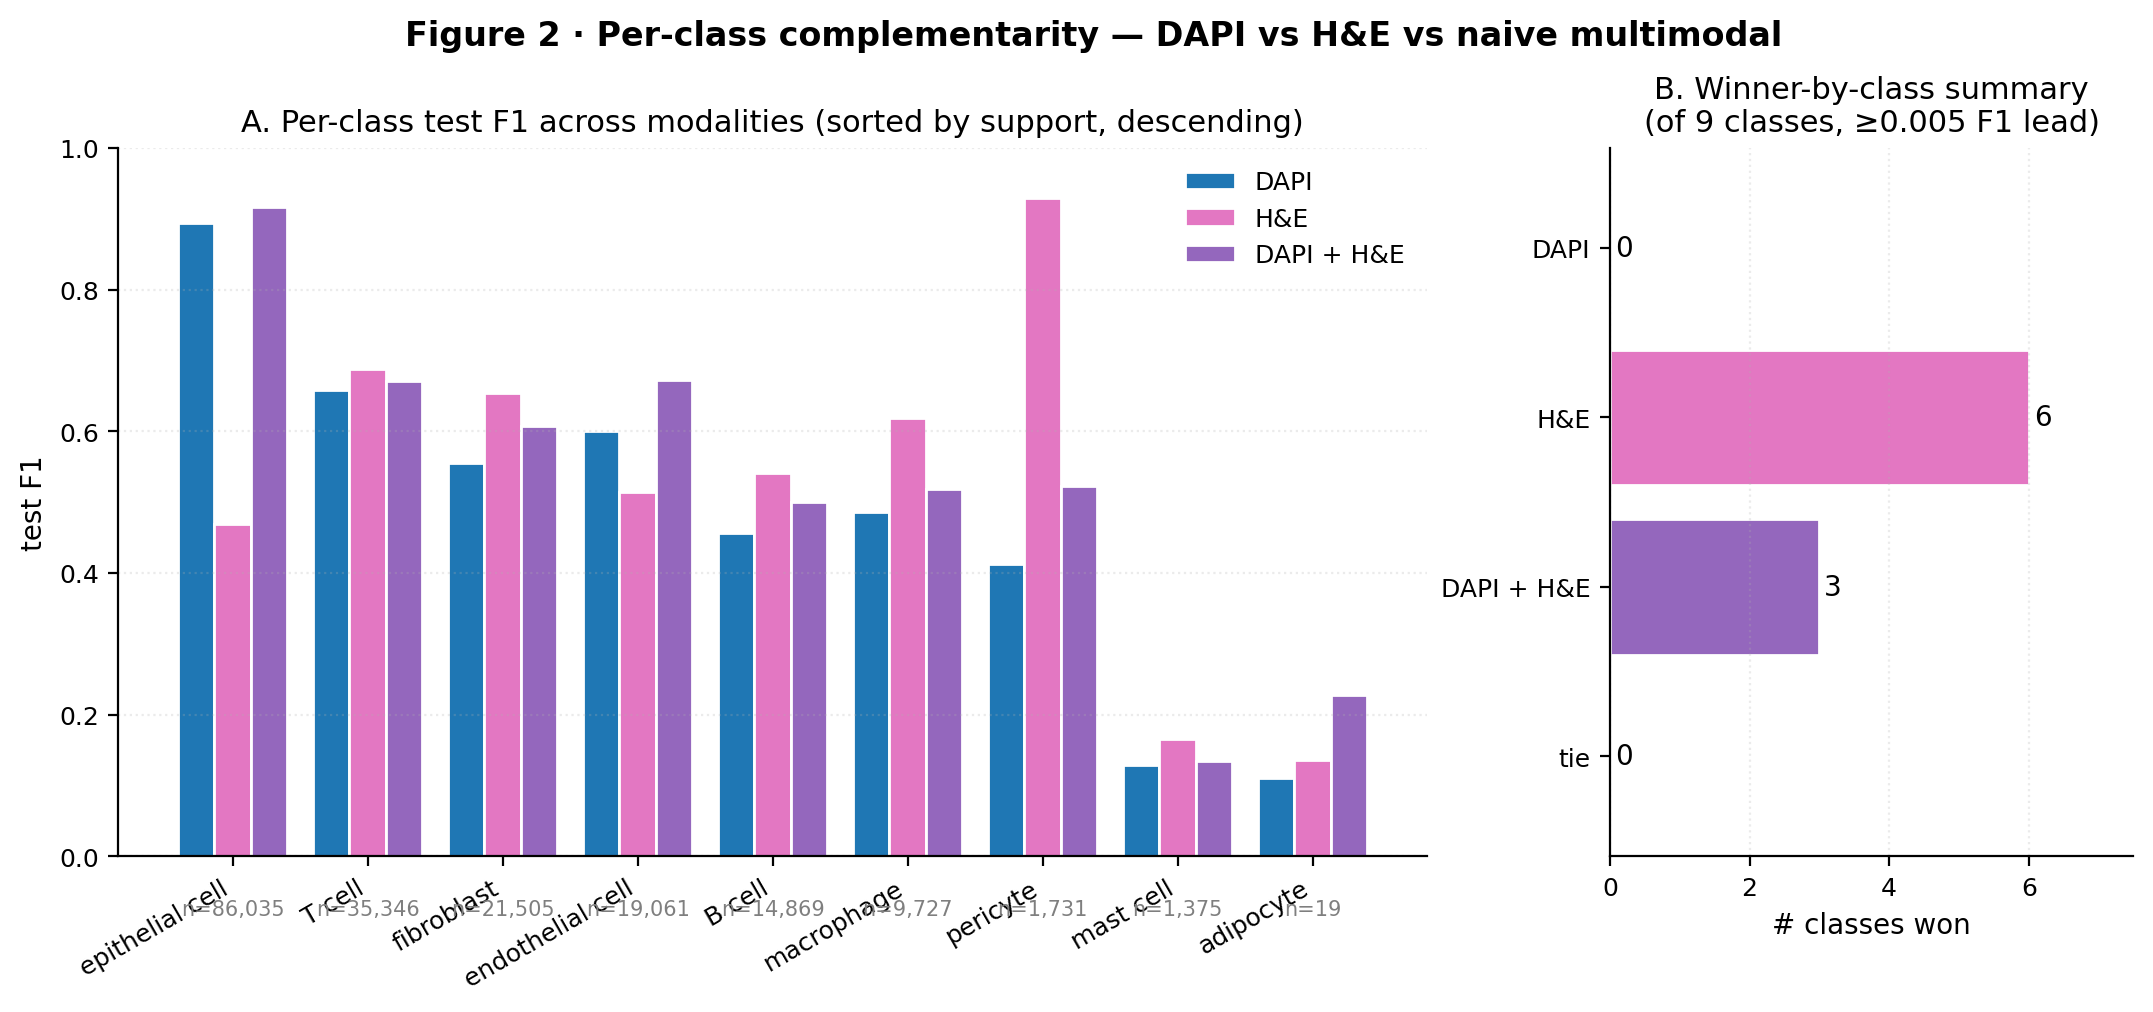
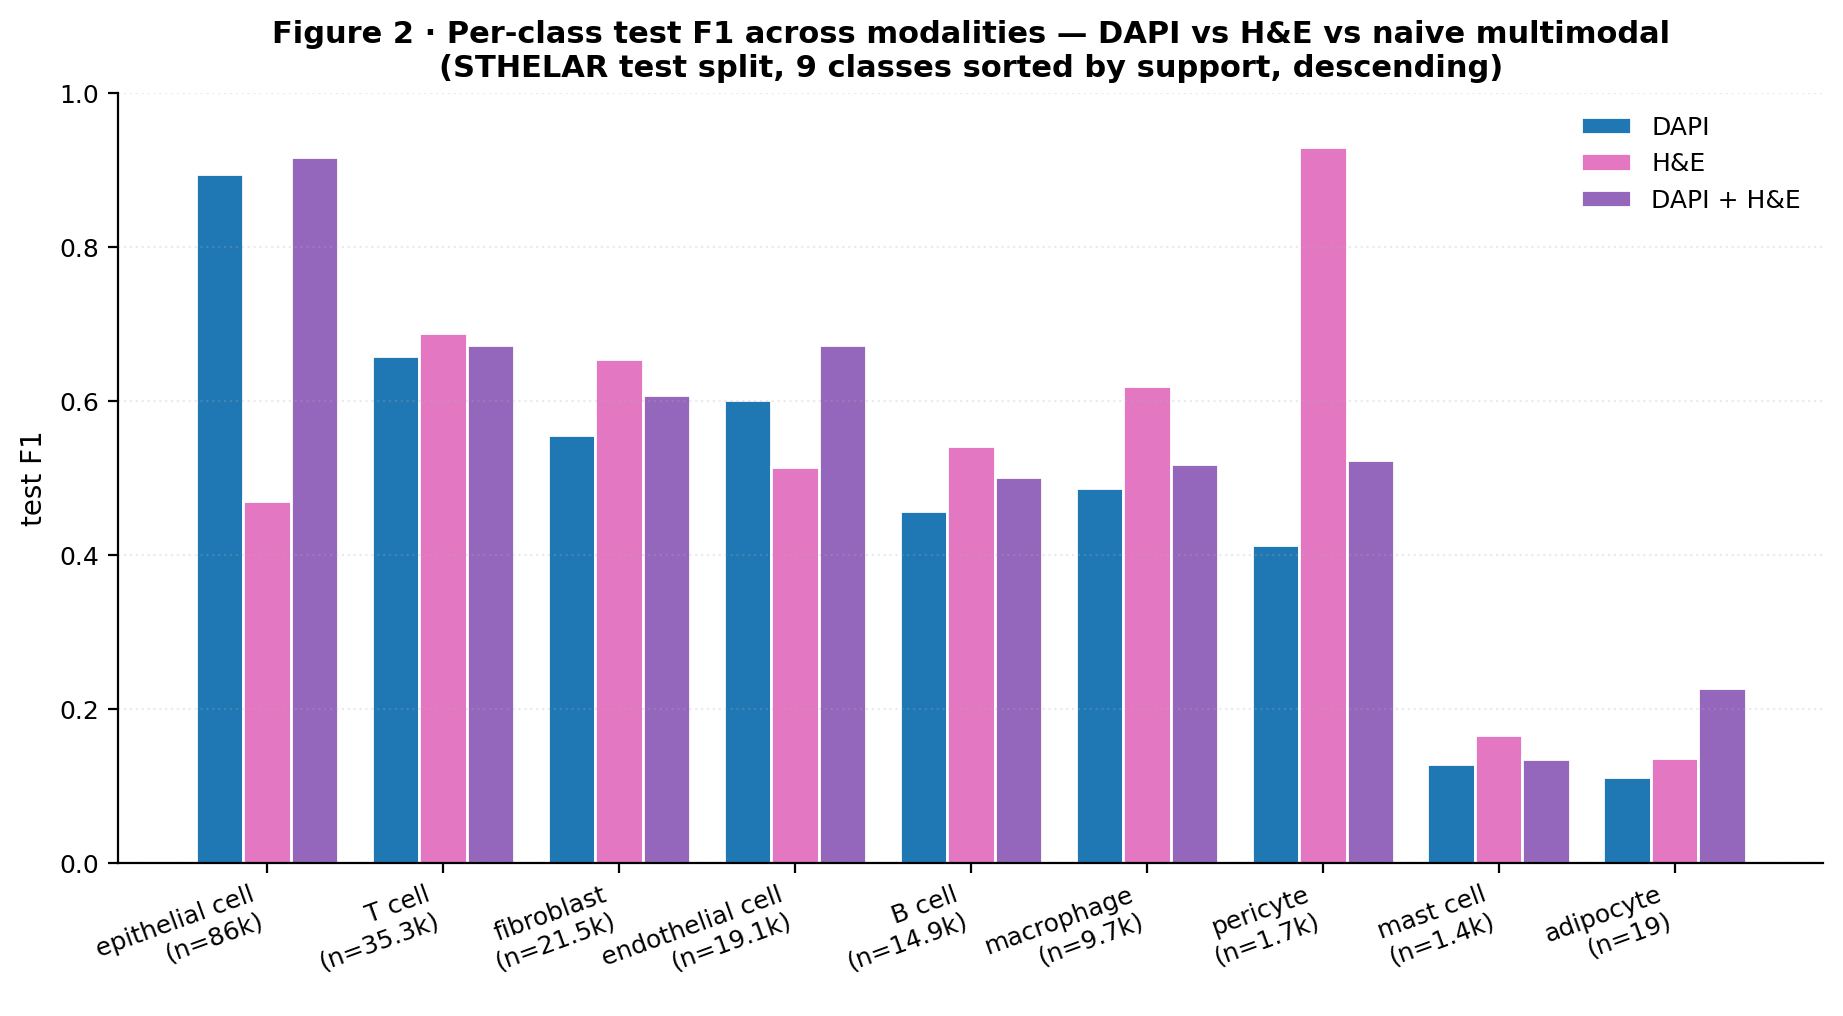
fix(fig2): fold n=… into x-tick labels, remove winner-by-class panel
User flagged: (1) the per-class support n=… annotations sat at y=-0.06
where they collided with the rotated x-tick class names; (2) panel B
(winner-by-class summary) wasn't useful enough to keep.

Fix:
  - Single-panel figure (panel B removed)
  - x-tick labels now stack class name and n=… on two lines, e.g.
      epithelial cell
      (n=86k)
    Matplotlib owns the layout — no separate ax.text() row to overlap.
  - Reduced rotation 30°→20° (single panel has more horizontal room)
  - Title shortened since the figure is now self-evident.

Manuscript figure 2 caption updated to drop the "Right panel" reference
and fold the winner-by-class counts into the prose. Both Obsidian copies
refreshed via the sync helper.

diff --git a/scripts/manuscript_figures.py b/scripts/manuscript_figures.py
@@ -153,11 +153,18 @@ def fig2_per_class_modality():
     def f1_of(mode: str, cls: str) -> float:
         return pc[mode][cls]["f1"]
 
-    fig, axes = plt.subplots(1, 2, figsize=(13, 4.6),
-                             gridspec_kw={"width_ratios": [2.5, 1.0]})
+    def _fmt_n(n: int) -> str:
+        if n >= 1000:
+            return f"{n/1000:.1f}k".replace(".0k", "k")
+        return f"{n}"
 
-    # Panel A — grouped F1 bars
-    ax = axes[0]
+    # Tick labels carry the support inline so a separate ax.text() row
+    # below the x-axis is unnecessary (and won't collide with rotated labels).
+    xtick_labels = [f"{c}\n(n={_fmt_n(supports[c])})" for c in classes]
+
+    fig, ax = plt.subplots(figsize=(11, 5.0))
+
+    # Grouped F1 bars: DAPI / H&E / multimodal per class.
     x = np.arange(len(classes))
     w = 0.27
     for i, (m, lbl, c) in enumerate([("dapi", "DAPI", C_DAPI),
@@ -166,50 +173,14 @@ def fig2_per_class_modality():
         f1s = [f1_of(m, cls) for cls in classes]
         ax.bar(x + (i - 1) * w, f1s, w, color=c, label=lbl, edgecolor="white")
     ax.set_xticks(x)
-    ax.set_xticklabels(classes, rotation=30, ha="right")
+    ax.set_xticklabels(xtick_labels, rotation=20, ha="right")
     ax.set_ylabel("test F1")
     ax.set_ylim(0, 1.0)
-    ax.set_title("A. Per-class test F1 across modalities (sorted by support, descending)")
+    ax.set_title("Figure 2 · Per-class test F1 across modalities — DAPI vs H&E vs naive multimodal\n(STHELAR test split, 9 classes sorted by support, descending)",
+                 fontsize=11, fontweight="bold")
     ax.legend(loc="upper right", frameon=False)
     ax.grid(axis="y", alpha=0.25, linestyle=":")
-    # Annotate support
-    for i, c in enumerate(classes):
-        n = supports[c]
-        ax.text(i, -0.06, f"n={n:,}", ha="center", va="top", fontsize=7.5, color=C_GREY)
 
-    # Panel B — winner-by-class summary
-    ax = axes[1]
-    winner_counts = {"DAPI": 0, "H&E": 0, "DAPI + H&E": 0, "tie": 0}
-    rows = []
-    for cls in classes:
-        f1 = {m: f1_of(m, cls) for m in ["dapi", "he", "both"]}
-        best = max(f1, key=lambda k: f1[k])
-        delta = f1[best] - sorted(f1.values())[-2]
-        if delta < 0.005:
-            winner_counts["tie"] += 1
-        elif best == "dapi":
-            winner_counts["DAPI"] += 1
-        elif best == "he":
-            winner_counts["H&E"] += 1
-        else:
-            winner_counts["DAPI + H&E"] += 1
-        rows.append((cls, best, delta))
-
-    cats = list(winner_counts.keys())
-    vals = [winner_counts[k] for k in cats]
-    colors = [C_DAPI, C_HE, C_MULTI, C_GREY]
-    bars = ax.barh(cats, vals, color=colors, edgecolor="white")
-    for b, v in zip(bars, vals):
-        ax.text(b.get_width() + 0.07, b.get_y() + b.get_height() / 2,
-                f"{int(v)}", va="center", fontsize=10)
-    ax.set_xlabel("# classes won")
-    ax.set_xlim(0, max(vals) + 1.5)
-    ax.set_title("B. Winner-by-class summary\n(of 9 classes, ≥0.005 F1 lead)")
-    ax.invert_yaxis()
-    ax.grid(axis="x", alpha=0.25, linestyle=":")
-
-    fig.suptitle("Figure 2 · Per-class complementarity — DAPI vs H&E vs naive multimodal",
-                 y=1.02, fontsize=12, fontweight="bold")
     fig.savefig(OUT / "fig2_per_class_modality.png")
     plt.close(fig)
     print("✓ fig2_per_class_modality.png")

diff --git a/docs/manuscript_draft.md b/docs/manuscript_draft.md
@@ -424,7 +424,7 @@ H&E alone improves macro F1 by +0.046 over DAPI alone (+9.6% relative); naive mu
 
 **Per-class complementarity.** The two modalities are not redundant — they are *complementary*, but the naive 4-channel adapter is unable to combine them losslessly (Table 11e, Fig. 2).
 
-![Figure 2 — Per-class complementarity. Left: test F1 per class for DAPI, H&E, and naive multimodal, sorted by support (descending). DAPI dominates only on epithelial cells (the most numerous class); H&E dominates on most other classes. Right: winner-by-class summary — DAPI wins 0 classes outright, H&E wins 6, naive multimodal wins 3 (epithelial, endothelial, adipocyte). The sharp pericyte gap (H&E F1 0.929 vs multimodal 0.523) is the most visible architectural failure.](figures/fig2_per_class_modality.png)
+![Figure 2 — Per-class complementarity. Test F1 per class for DAPI, H&E and naive multimodal across all 9 STHELAR classes, sorted by support (descending). Sample size annotated under each class name. DAPI dominates only on epithelial cells (the most numerous class, n=86k); H&E dominates on most other classes; the sharp pericyte gap (H&E F1=0.929 vs multimodal 0.523) is the most visible architectural failure of naive 4-channel fusion. Of nine classes: DAPI wins outright on 0, H&E on 6, naive multimodal on 3 (epithelial, endothelial, adipocyte).](figures/fig2_per_class_modality.png)
 
 **Table 11e. Per-class macro F1 across modalities.**
 